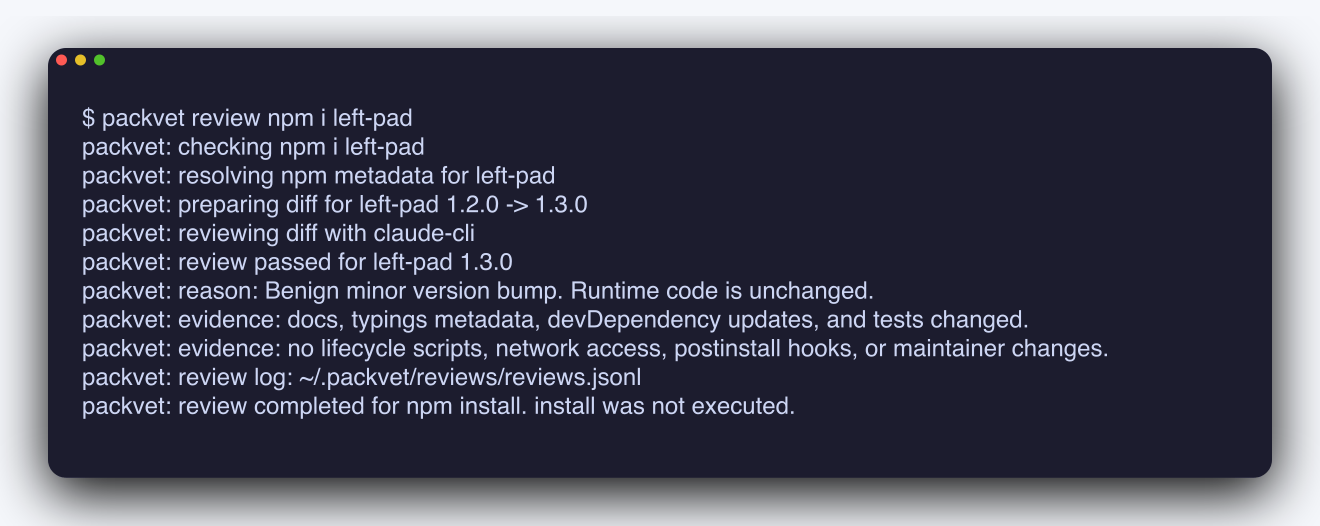
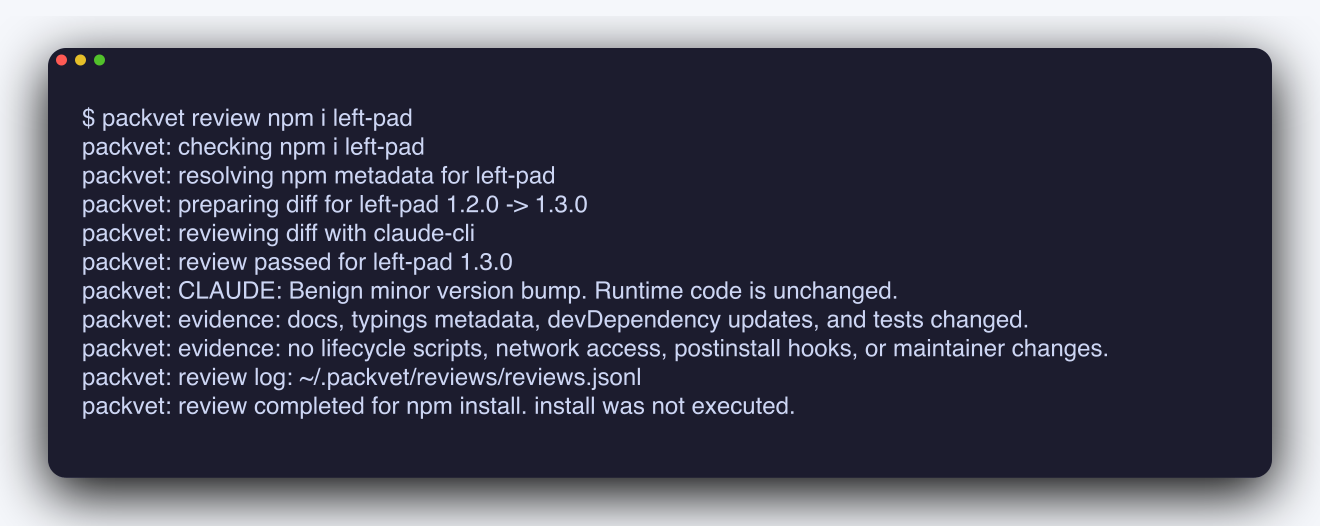
fix: label provider review reasons

Changed region(s): [[0.1242, 0.5171, 0.6833, 0.5779]]

diff --git a/tests/contracts/cli/review.rs b/tests/contracts/cli/review.rs
@@ -267,7 +267,7 @@ fn review_recent_npm_install_does_not_execute_real_npm_after_provider_pass() {
     assert!(stderr.contains("packvet: preparing diff for recent-package 1.0.0 -> 1.1.0\n"));
     assert!(stderr.contains("packvet: reviewing diff with claude-cli\n"));
     assert!(stderr.contains("packvet: review passed for recent-package 1.1.0\n"));
-    assert!(stderr.contains("packvet: reason: fixture allowed\n"));
+    assert!(stderr.contains("packvet: CLAUDE: fixture allowed\n"));
     assert!(
         stderr.ends_with("packvet: review completed for npm install. install was not executed.\n")
     );
@@ -329,7 +329,7 @@ fn explicit_recent_npm_install_logs_review_and_executes_real_npm_after_provider_
     assert_eq!(
         String::from_utf8(output.stderr).expect("stderr is utf-8"),
         format!(
-            "packvet: checking npm install recent-package\npackvet: resolving npm metadata for recent-package\npackvet: preparing diff for recent-package 1.0.0 -> 1.1.0\npackvet: reviewing diff with claude-cli\npackvet: review \u{1b}[32mpassed\u{1b}[0m for recent-package 1.1.0\npackvet: \u{1b}[1mreason:\u{1b}[0m fixture allowed\npackvet: \u{1b}[1mreview log:\u{1b}[0m \u{1b}[36;4m{}\u{1b}[0m\npackvet: running npm install recent-package\nfake npm stderr\n",
+            "packvet: checking npm install recent-package\npackvet: resolving npm metadata for recent-package\npackvet: preparing diff for recent-package 1.0.0 -> 1.1.0\npackvet: reviewing diff with claude-cli\npackvet: review \u{1b}[32mpassed\u{1b}[0m for recent-package 1.1.0\npackvet: \u{1b}[1mCLAUDE:\u{1b}[0m fixture allowed\npackvet: \u{1b}[1mreview log:\u{1b}[0m \u{1b}[36;4m{}\u{1b}[0m\npackvet: running npm install recent-package\nfake npm stderr\n",
             review_log_dir.join("reviews.jsonl").display()
         )
     );

diff --git a/src/cli.rs b/src/cli.rs
@@ -514,7 +514,7 @@ fn provider_pass_messages(outcomes: &[PackageOutcome]) -> String {
             style.pass("passed"),
             review.package_name,
             review.version,
-            style.label("reason:"),
+            style.label(&provider_reason_label(&review.provider_id)),
             reason,
             style.label("review log:"),
             style.log_path(&log_path)
@@ -522,6 +522,16 @@ fn provider_pass_messages(outcomes: &[PackageOutcome]) -> String {
     }
 
     message
+}
+
+fn provider_reason_label(provider_id: &str) -> String {
+    let provider_name = match provider_id {
+        "claude" | "claude-cli" => "CLAUDE",
+        "codex" | "codex-cli" => "CODEX",
+        value => value,
+    };
+
+    format!("{provider_name}:")
 }
 
 #[derive(Debug, Clone, Copy, PartialEq, Eq)]
@@ -993,5 +1003,11 @@ mod tests {
             response.stderr,
             "packvet: review could not complete safely; install is paused.\n"
         );
+    }
+
+    #[test]
+    fn provider_reason_label_uses_configured_ai_name() {
+        assert_eq!(provider_reason_label("claude-cli"), "CLAUDE:");
+        assert_eq!(provider_reason_label("codex-cli"), "CODEX:");
     }
 }

diff --git a/src/core/outcome.rs b/src/core/outcome.rs
@@ -15,6 +15,7 @@ pub enum ReviewUnavailableReason {
 pub struct ProviderReviewOutcome {
     pub package_name: String,
     pub version: String,
+    pub provider_id: String,
     pub verdict: Verdict,
     pub reason: Option<String>,
     pub log_path: Option<PathBuf>,
@@ -127,6 +128,7 @@ mod tests {
             aggregate_verdicts(&[PackageOutcome::ProviderReview(ProviderReviewOutcome {
                 package_name: "demo".to_owned(),
                 version: "1.0.0".to_owned(),
+                provider_id: "claude-cli".to_owned(),
                 verdict: Verdict::Ask,
                 reason: Some("uncertain".to_owned()),
                 log_path: None,
@@ -157,6 +159,7 @@ mod tests {
             aggregate_verdicts(&[PackageOutcome::ProviderReview(ProviderReviewOutcome {
                 package_name: "demo".to_owned(),
                 version: "1.0.0".to_owned(),
+                provider_id: "claude-cli".to_owned(),
                 verdict: Verdict::Block,
                 reason: Some("risky".to_owned()),
                 log_path: None,

diff --git a/src/providers/review.rs b/src/providers/review.rs
@@ -101,6 +101,7 @@ where
                         PackageOutcome::ProviderReview(ProviderReviewOutcome {
                             package_name: releases.package_name.clone(),
                             version: releases.target.version.clone(),
+                            provider_id: self.provider.id().to_owned(),
                             verdict: review.verdict,
                             reason: review.reason,
                             log_path,

diff --git a/src/providers/archive_diff_review_tests.rs b/src/providers/archive_diff_review_tests.rs
@@ -139,6 +139,7 @@ fn successful_archive_diff_returns_provider_verdict() {
         PackageOutcome::ProviderReview(ProviderReviewOutcome {
             package_name: "demo".to_owned(),
             version: "1.1.0".to_owned(),
+            provider_id: "static".to_owned(),
             verdict: Verdict::Block,
             reason: Some("added risky code".to_owned()),
             log_path: None,
